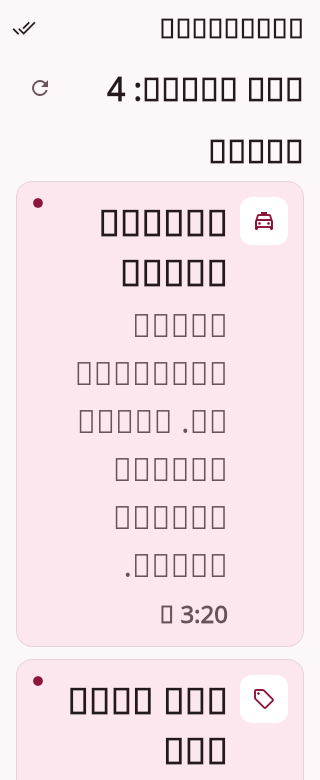
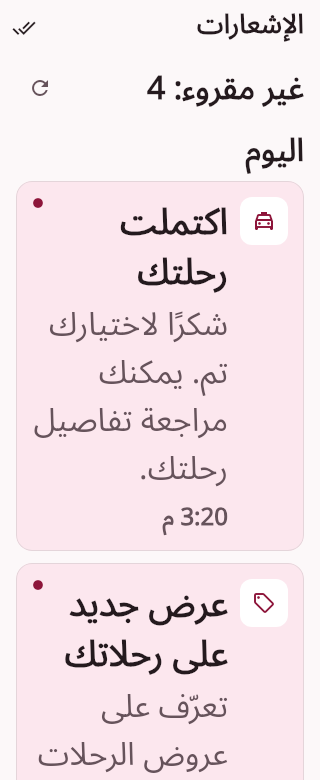
fix(notifications): validate contracts and reveal empty refresh failures [skip ci]

diff --git a/apps/customer/lib/features/notifications/data/notifications_codec.dart b/apps/customer/lib/features/notifications/data/notifications_codec.dart
@@ -8,7 +8,7 @@ abstract final class NotificationsCodec {
   static CustomerNotification item(Map<String, dynamic> json) {
     String requiredString(String key) {
       final value = json[key];
-      if (value is! String || value.isEmpty) {
+      if (value is! String || value.trim().isEmpty) {
         throw FormatException('Missing/invalid $key');
       }
       return value;
@@ -17,17 +17,16 @@ abstract final class NotificationsCodec {
     NotificationCopy copy(Object? raw) {
       if (raw is! Map<String, dynamic> ||
           raw['ar'] is! String ||
-          raw['en'] is! String) {
+          raw['en'] is! String ||
+          (raw['ar'] as String).trim().isEmpty ||
+          (raw['en'] as String).trim().isEmpty) {
         throw const FormatException('Expected bilingual notification text');
       }
       return NotificationCopy(ar: raw['ar'] as String, en: raw['en'] as String);
     }
 
-    DateTime utc(Object? raw) {
-      if (raw is! String || !raw.endsWith('Z')) {
-        throw const FormatException('Expected UTC ISO-8601 timestamp');
-      }
-      return DateTime.parse(raw).toUtc();
+    if (!json.containsKey('read_at')) {
+      throw const FormatException('Missing read_at');
     }
 
     final rawTarget = json['target'];
@@ -52,8 +51,8 @@ abstract final class NotificationsCodec {
       },
       title: copy(json['title']),
       body: copy(json['body']),
-      createdAt: utc(json['created_at']),
-      readAt: json['read_at'] == null ? null : utc(json['read_at']),
+      createdAt: _utc(json['created_at']),
+      readAt: json['read_at'] == null ? null : _utc(json['read_at']),
       target: NotificationTarget(
         destination: targetType,
         tripId:
@@ -70,6 +69,7 @@ abstract final class NotificationsCodec {
     final data = json['data'], meta = json['meta'];
     if (data is! List ||
         meta is! Map<String, dynamic> ||
+        !meta.containsKey('next_cursor') ||
         (meta['next_cursor'] != null && meta['next_cursor'] is! String)) {
       throw const FormatException('Invalid notification page');
     }
@@ -101,12 +101,8 @@ abstract final class NotificationsCodec {
   static NotificationsReadAllResult readAll(Map<String, dynamic> json) {
     final count = unreadCount(json);
     final data = json['data'] as Map<String, dynamic>;
-    final raw = data['read_at'];
-    if (raw is! String || !raw.endsWith('Z')) {
-      throw const FormatException('Invalid read_all read_at');
-    }
     return NotificationsReadAllResult(
-      readAt: DateTime.parse(raw).toUtc(),
+      readAt: _utc(data['read_at']),
       unreadCount: count,
     );
   }
@@ -117,6 +113,35 @@ abstract final class NotificationsCodec {
       throw const FormatException('Invalid notification envelope');
     }
     return item(data);
+  }
+
+  // DateTime.parse normalizes impossible dates (e.g. February 30). Reject
+  // those at the transport boundary rather than displaying a different date.
+  static DateTime _utc(Object? raw) {
+    if (raw is! String) {
+      throw const FormatException('Expected UTC ISO-8601 timestamp');
+    }
+    final match = RegExp(
+      r'^(\d{4})-(\d{2})-(\d{2})T(\d{2}):(\d{2}):(\d{2})(?:\.\d+)?Z$',
+    ).firstMatch(raw);
+    if (match == null) {
+      throw const FormatException('Expected UTC ISO-8601 timestamp');
+    }
+    final parsed = DateTime.parse(raw);
+    final components = [
+      parsed.year,
+      parsed.month,
+      parsed.day,
+      parsed.hour,
+      parsed.minute,
+      parsed.second,
+    ];
+    for (var index = 0; index < components.length; index++) {
+      if (components[index] != int.parse(match.group(index + 1)!)) {
+        throw const FormatException('Invalid calendar timestamp');
+      }
+    }
+    return parsed;
   }
 
   static Map<String, dynamic> decode(String source) =>

diff --git a/apps/customer/test/features/notifications/notifications_widget_test.dart b/apps/customer/test/features/notifications/notifications_widget_test.dart
@@ -33,6 +33,22 @@ class _NavigationSpy implements CustomerNavigation {
   void openRideRequest({TripPrefill? prefill}) {}
 }
 
+ThemeData _reviewTheme() {
+  final base = AppTheme.light;
+  return base.copyWith(
+    appBarTheme: base.appBarTheme.copyWith(
+      titleTextStyle: base.appBarTheme.titleTextStyle?.copyWith(
+        fontFamily: 'NotificationsArabic',
+        fontFamilyFallback: const ['NotificationsLatin'],
+      ),
+    ),
+    textTheme: base.textTheme.apply(
+      fontFamily: 'NotificationsArabic',
+      fontFamilyFallback: const ['NotificationsLatin'],
+    ),
+  );
+}
+
 Future<NotificationsCubit> _pumpInbox(
   WidgetTester tester,
   NotificationsRepository repository,
@@ -45,7 +61,9 @@ Future<NotificationsCubit> _pumpInbox(
     BlocProvider.value(
       value: cubit,
       child: MaterialApp(
-        theme: AppTheme.light,
+        theme: Platform.environment['TAM_NOTIFICATIONS_GOLDEN'] == '1'
+            ? _reviewTheme()
+            : AppTheme.light,
         locale: Locale(locale),
         localizationsDelegates: const [
           AppLocalizations.delegate,
@@ -86,9 +104,11 @@ void main() {
     final latinFont = File(
       '/usr/share/fonts/truetype/noto/NotoSans-Regular.ttf',
     );
-    final loader = FontLoader('Roboto');
+    final loader = FontLoader('NotificationsArabic');
     if (latinFont.existsSync()) {
-      loader.addFont(latinFont.readAsBytes().then(ByteData.sublistView));
+      await (FontLoader(
+        'NotificationsLatin',
+      )..addFont(latinFont.readAsBytes().then(ByteData.sublistView))).load();
     }
     loader.addFont(file.readAsBytes().then(ByteData.sublistView));
     await loader.load();
@@ -204,13 +224,32 @@ void main() {
     expect(find.byKey(const Key('notifications-list')), findsNothing);
   });
 
+  testWidgets('failed refresh of an empty inbox is visible and retryable', (
+    tester,
+  ) async {
+    final repository = MockNotificationsRepository(seed: []);
+    final cubit = await _pumpInbox(tester, repository, _NavigationSpy());
+    addTearDown(() async {
+      await cubit.close();
+      await repository.dispose();
+    });
+    repository.failOnce(MockNotificationsOperation.page);
+    await tester.tap(find.text('تحديث'));
+    await tester.pumpAndSettle();
+    expect(find.text('تعذر تحميل الإشعارات'), findsOneWidget);
+    await tester.tap(find.text('إعادة المحاولة'));
+    await tester.pumpAndSettle();
+    expect(find.text('لا توجد إشعارات بعد'), findsOneWidget);
+    expect(find.text('تعذر تحميل الإشعارات'), findsNothing);
+  });
+
   for (final caseItem in [
     ('ar', 390.0, 844.0, 1.0, 'notifications_ar_390.png'),
     ('en', 390.0, 844.0, 1.0, 'notifications_en_390.png'),
     ('ar', 800.0, 1080.0, 1.0, 'notifications_ar_tablet_800.png'),
     ('ar', 320.0, 780.0, 2.0, 'notifications_ar_320_large_text.png'),
   ]) {
-    testWidgets('rendered UI golden ${caseItem.$5}', (tester) async {
+    testWidgets('responsive inbox ${caseItem.$5}', (tester) async {
       tester.view.devicePixelRatio = 1.0;
       tester.view.physicalSize = Size(caseItem.$2, caseItem.$3);
       addTearDown(tester.view.resetPhysicalSize);
@@ -228,10 +267,12 @@ void main() {
         await repository.dispose();
       });
       expect(tester.takeException(), isNull);
-      await expectLater(
-        find.byType(Scaffold),
-        matchesGoldenFile('goldens/${caseItem.$5}'),
-      );
-    }, skip: !goldenEnabled);
+      if (goldenEnabled) {
+        await expectLater(
+          find.byType(Scaffold),
+          matchesGoldenFile('goldens/${caseItem.$5}'),
+        );
+      }
+    });
   }
 }

diff --git a/apps/customer/test/features/notifications/notifications_validation_test.dart b/apps/customer/test/features/notifications/notifications_validation_test.dart
@@ -1,0 +1,40 @@
+import 'package:flutter_test/flutter_test.dart';
+import 'package:tam_customer/features/notifications/data/mock/notifications_fixture.dart';
+import 'package:tam_customer/features/notifications/data/notifications_codec.dart';
+
+void main() {
+  test('codec rejects normalized invalid dates and blank required text', () {
+    for (final invalidDate in [
+      '2026-02-30T12:00:00Z',
+      '2026-11-07T25:00:00Z',
+    ]) {
+      final item = Map<String, dynamic>.from(mockNotificationsFixture.first)
+        ..['created_at'] = invalidDate;
+      expect(() => NotificationsCodec.item(item), throwsFormatException);
+      expect(
+        () => NotificationsCodec.readAll({
+          'data': {'unread_count': 0, 'read_at': invalidDate},
+        }),
+        throwsFormatException,
+      );
+    }
+    for (final field in ['title', 'body']) {
+      final item = Map<String, dynamic>.from(mockNotificationsFixture.first)
+        ..[field] = {'ar': ' ', 'en': 'Valid'};
+      expect(() => NotificationsCodec.item(item), throwsFormatException);
+    }
+    final item = Map<String, dynamic>.from(mockNotificationsFixture.first)
+      ..['id'] = ' ';
+    expect(() => NotificationsCodec.item(item), throwsFormatException);
+  });
+
+  test('nullable contract fields must still be present', () {
+    final item = Map<String, dynamic>.from(mockNotificationsFixture.first)
+      ..remove('read_at');
+    expect(() => NotificationsCodec.item(item), throwsFormatException);
+    expect(
+      () => NotificationsCodec.page({'data': [], 'meta': <String, dynamic>{}}),
+      throwsFormatException,
+    );
+  });
+}

diff --git a/apps/customer/lib/features/notifications/presentation/pages/notifications_page.dart b/apps/customer/lib/features/notifications/presentation/pages/notifications_page.dart
@@ -73,7 +73,8 @@ class NotificationsPage extends StatelessWidget {
         child: TamLoadingIndicator(semanticLabel: l10n.notificationsLoading),
       );
     }
-    if (state.status == NotificationsLoadStatus.error) {
+    if (state.status == NotificationsLoadStatus.error ||
+        (state.items.isEmpty && state.error != null)) {
       return _MessageState(
         icon: Icons.wifi_off_outlined,
         title: l10n.notificationsErrorTitle,
